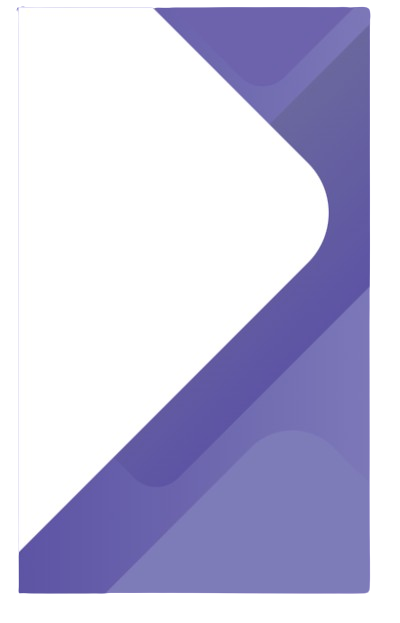
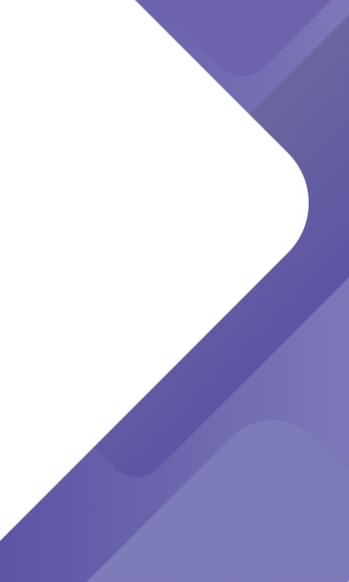
Updated login

Changed region(s): [[0.0, 0.0, 1.0, 1.0], [0.8023, 0.0928, 0.8596, 0.1237], [0.7736, 0.1237, 0.8023, 0.1546]]

diff --git a/src/pages/Loginpage.js b/src/pages/Loginpage.js
@@ -1,7 +1,7 @@
 import React, { useState } from "react";
 import { Form, FormGroup, FormControl, Button, Alert } from "react-bootstrap";
 import StudentImage from "../templates/Base/images/student.jpg";
- 
+import LoginImage from "../templates/Base/images/Capture.png"
 
 const Loginpage = () => {
   const [username, setUsername] = useState("");
@@ -40,7 +40,7 @@ const Loginpage = () => {
 
   return (
     <div
-      className="container"
+      className="base"
       style={{
         display: "flex",
         flexDirection: "row",
@@ -91,7 +91,7 @@ const Loginpage = () => {
       <div
         className="right"
         style={{
-          background: "linear-gradient(90deg, #5D54A4, #7C78B8)",
+          // background: "linear-gradient(90deg, #5D54A4, #7C78B8)",
           boxShadow: "0px 0px 24px #5C5696",
           borderRadius: "16px",
           overflow: "hidden",
@@ -99,7 +99,10 @@ const Loginpage = () => {
           width: "360px",
           display: "flex",
           flexDirection: "column",
-          backgroundImage: "../templates/Base/images/Capture.PNG",
+          backgroundImage: `url(${LoginImage})`,
+          backgroundSize: "cover",
+          backgroundRepeat: "no-repeat",
+          // backgroundPosition: "-5% -5%",
           // justifyContent: "center",
           alignItems: "center",
         }}
